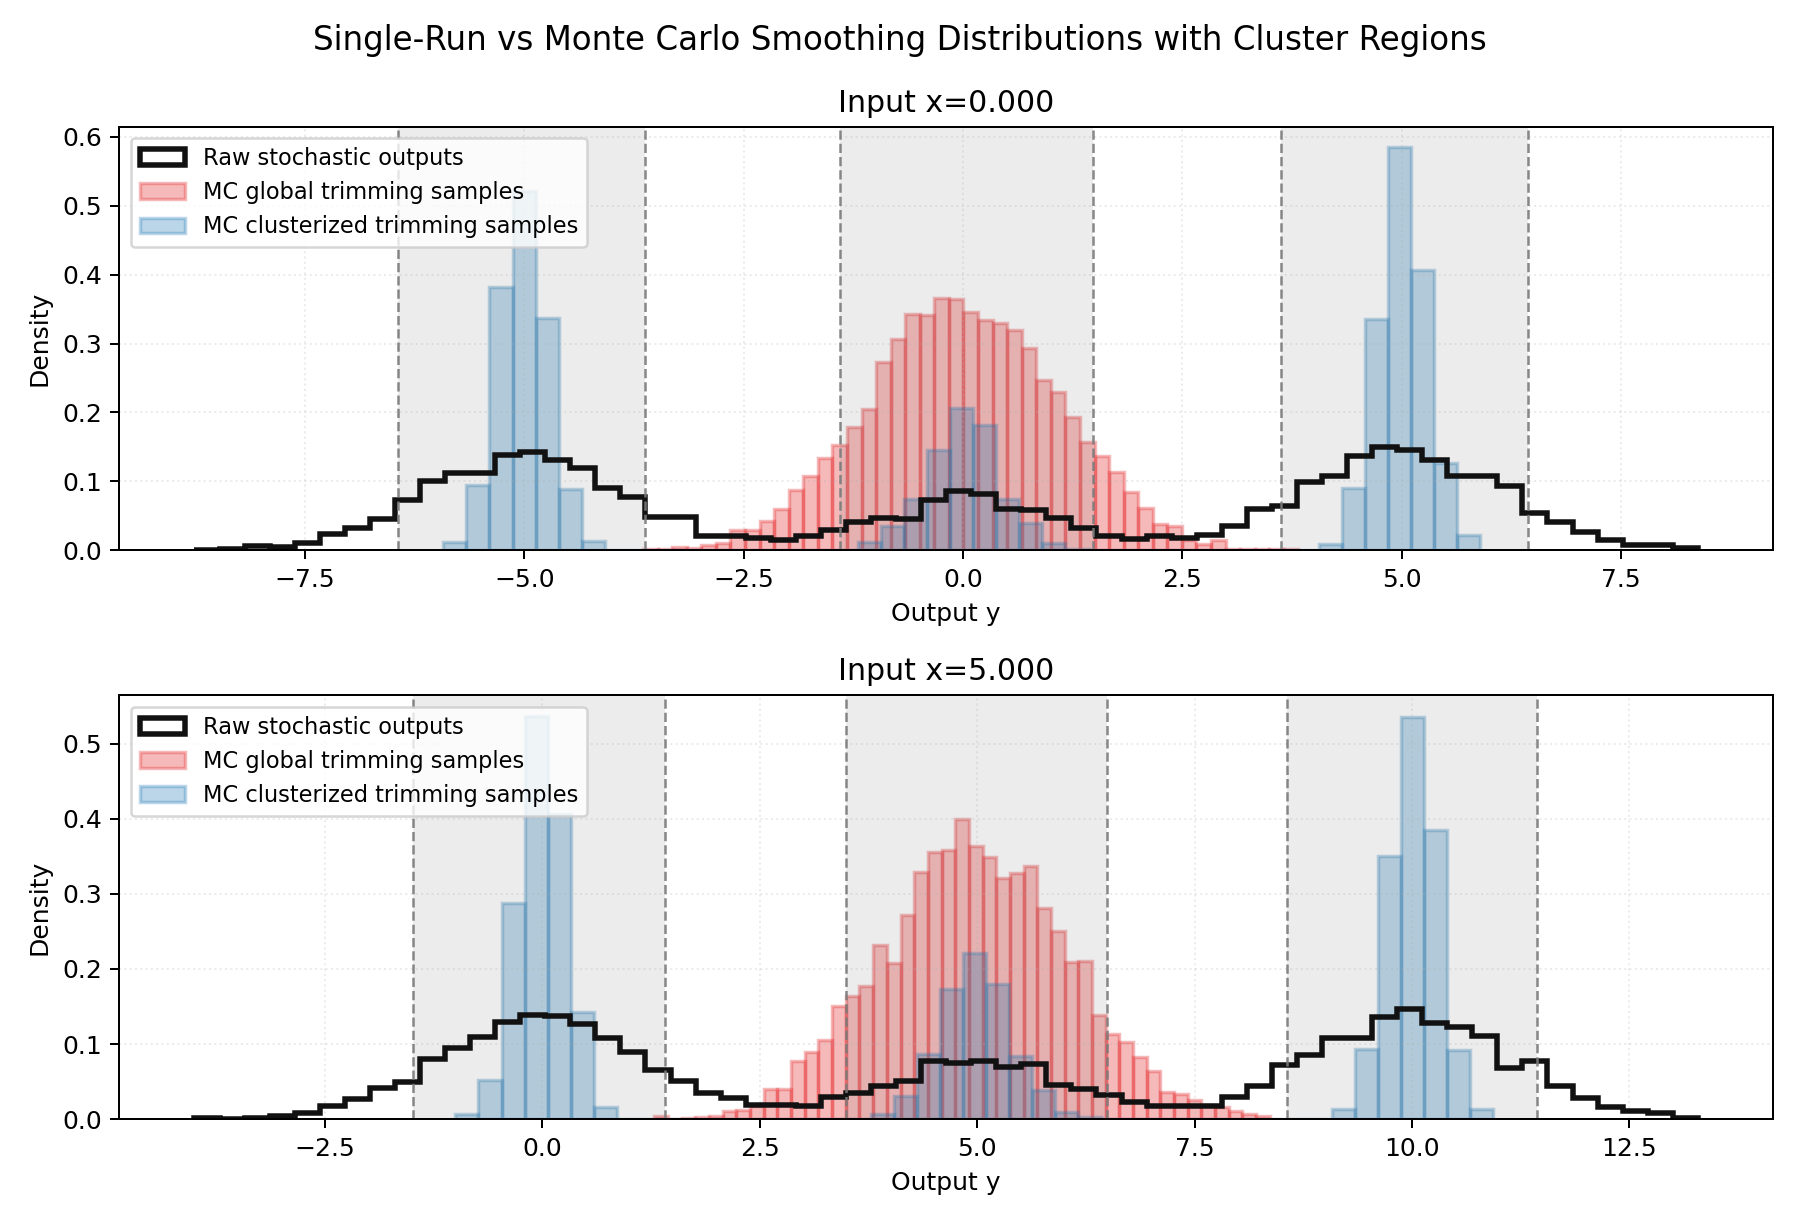
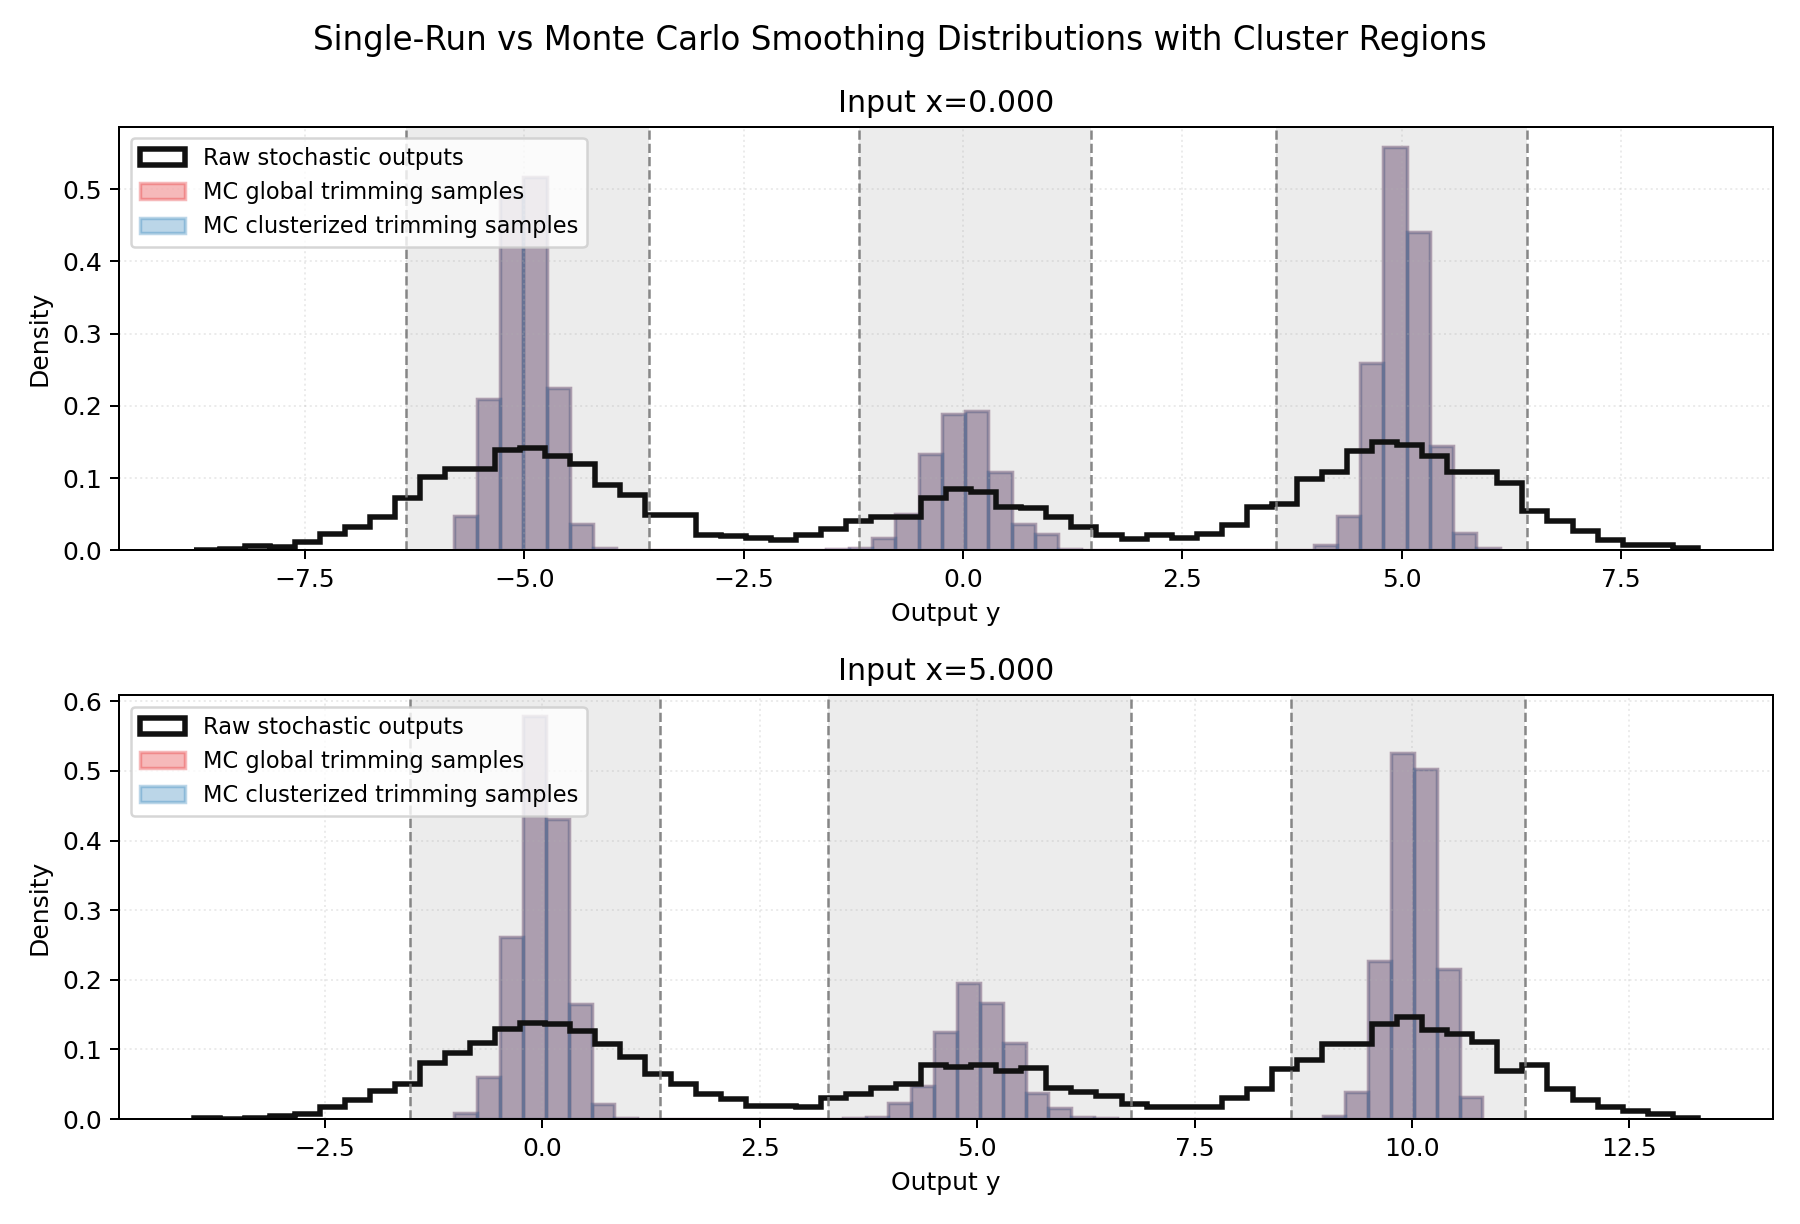
refactor smoother

diff --git a/src/randomized_smoothing/smoothing.py b/src/randomized_smoothing/smoothing.py
@@ -4,6 +4,7 @@ from typing import Optional
 import torch
 
 from randomized_smoothing.dataclasses import Parameters, RobustnessCertificate
+from randomized_smoothing.regions import HyperRectangle
 
 from .clopper_pearson import ClopperPearsonLowerBound
 from .distributions import Dirac, Distribution, MixtureDirac, MultivariateGaussian
@@ -33,8 +34,8 @@ class Smoothing(ABC):
     # def robust_certification(self, region_coverage: float, p_partition: torch.Tensor, beta: float, num_samples: int, radius: float) -> RobustnessCertificate:
     #     raise NotImplementedError
 
-    def monte_carlo(self, x: torch.Tensor, num_simulations: int) -> torch.Tensor:
-        draws = [self.smooth(x=x).distribution.sample() for _ in range(num_simulations)]
+    def monte_carlo(self, num_simulations: int) -> torch.Tensor:
+        draws = [self.smooth().distribution.sample() for _ in range(num_simulations)]
         return torch.stack(draws, dim=1)
 
 
@@ -42,30 +43,36 @@ class AlphaTrimmingSmoothing(Smoothing):
     def __init__(
             self, 
             stochastic_function: StochasticFunction,
-            smoothing_distribution: Distribution, 
+            x: torch.Tensor,
+            smoothing_distribution: Distribution,
             parameters: Parameters,
         ):
         self.stochastic_function = stochastic_function
+        self.x = x
         self.smoothing_distribution = smoothing_distribution
         
         if _validate_alpha(parameters.smoothing.alpha):
             self.parameters = parameters
 
-    def _generate_noisy_samples_from_stochastic_function(self, x: torch.Tensor, num_samples: int) -> torch.Tensor:
-        nx = x.shape[0]
+    def _generate_noisy_samples_from_stochastic_function(self, num_samples: int) -> torch.Tensor:
+        nx = self.x.shape[0]
         return self.stochastic_function.sample(
-            x.unsqueeze(1) + self.smoothing_distribution.sample(size=(nx, num_samples))
+            self.x.unsqueeze(1) + self.smoothing_distribution.sample(size=(nx, num_samples))
         )  
 
-    def _construct_cluster(self, x: torch.Tensor, num_samples: int) -> Cluster:
-        raw_outputs = self._generate_noisy_samples_from_stochastic_function(x=x, num_samples=num_samples)
+    @property
+    def cluster(self) -> Cluster:
+        raw_outputs = self._generate_noisy_samples_from_stochastic_function(num_samples=self.parameters.confidence.num_samples)
         return Cluster(outputs=raw_outputs, parameters=self.parameters.clustering)
+    
+    @property
+    def regions(self) -> HyperRectangle:
+        return self.cluster.regions
 
-    def smooth(self, x: torch.Tensor) -> Distribution:
+    def smooth(self) -> Distribution:
+        outputs = self._generate_noisy_samples_from_stochastic_function(num_samples=self.parameters.smoothing.N)
         
-        cluster = self._construct_cluster(x=x, num_samples=self.parameters.confidence.num_samples)
-        outputs = self._generate_noisy_samples_from_stochastic_function(x=x, num_samples=self.parameters.smoothing.N)
-        
+        cluster = self.cluster
         centroids = cluster.centroids
         weights = cluster.weights
 
@@ -86,7 +93,7 @@ class AlphaTrimmingSmoothing(Smoothing):
             sorted_cluster_values = cluster_values.sort(dim=1).values
 
             counts = cluster_mask.sum(dim=1)
-            left = torch.floor(self.alpha * counts.to(outputs.dtype)).to(torch.long)
+            left = torch.floor(self.parameters.smoothing.alpha * counts.to(outputs.dtype)).to(torch.long)
             right = counts - left
 
             in_trimmed_core = (positions >= left.view(nx, 1, 1)) & (positions < right.view(nx, 1, 1))
@@ -102,7 +109,10 @@ class AlphaTrimmingSmoothing(Smoothing):
             )
 
         distribution = MixtureDirac(locs=trimmed_mean, probs=weights)
-        return RobustSmoothedOutput(distribution=distribution, certified_probs=None, radii=None)
+        return RobustSmoothedOutput(
+            distribution=distribution,
+            certified_probs=None, 
+            radii=None)
     
     def _clopper_pearson_lower_bound(self) -> torch.Tensor:
         return ClopperPearsonLowerBound(
@@ -111,7 +121,7 @@ class AlphaTrimmingSmoothing(Smoothing):
             parameters=self.parameters.confidence,
         ).lower_bound
 
-    def robust_certification(self, x: torch.Tensor, radius: float,) -> RobustnessCertificate:
+    def robust_certification(self, radius: float,) -> RobustnessCertificate:
         if not isinstance(self.smoothing_distribution, MultivariateGaussian):
             raise ValueError("Robustness certification is only available for MultivariateGaussian")
         

diff --git a/experiments/compare_distributions.py b/experiments/compare_distributions.py
@@ -47,7 +47,7 @@ def main():
     )
     clustering_parameters = ClusteringParameters(
         num_clusters=3,
-        region_coverage=0.8,
+        coverage=0.8,
     )
     confidence_parameters = ConfidenceParameters(
         beta=1e-2,
@@ -67,19 +67,20 @@ def main():
     
     alpha_trimming_smoother = AlphaTrimmingSmoothing(
         stochastic_function=stochastic_fn,
+        x=x,
         smoothing_distribution=smoothing_distribution,
         parameters=parameters,
     )
 
 	# Plot empirical distributions of raw outputs and smoothed outputs
-    alpha_trimming_mc_samples = alpha_trimming_smoother.monte_carlo(x=x, num_simulations=5000)
+    alpha_trimming_mc_samples = alpha_trimming_smoother.monte_carlo(num_simulations=5000)
 
     chart_paths = plot_experiment_results(
         x=x,
         outputs=raw_outputs,
         global_trimmed_mc_samples=alpha_trimming_mc_samples,
         clusterized_mc_samples=alpha_trimming_mc_samples, # TODO: FIX
-        region=alpha_trimming_smoother.get_regions(),
+        region=alpha_trimming_smoother.regions,
         output_dir=ROOT / "outputs",
     )
 

diff --git a/src/randomized_smoothing/regions.py b/src/randomized_smoothing/regions.py
@@ -35,7 +35,7 @@ class HyperRectangle:
         return HyperRectangle(lower, upper)
     
     @staticmethod
-    def from_samples(samples: torch.Tensor, centroids: torch.Tensor, region_coverage: float):
+    def from_samples(samples: torch.Tensor, centroids: torch.Tensor, coverage: float):
         nx, _, _ = samples.shape
         k = centroids.shape[1]
 
@@ -56,7 +56,7 @@ class HyperRectangle:
                     int(
                         torch.ceil(
                             torch.tensor(
-                                region_coverage * d_ij.numel(),
+                                coverage * d_ij.numel(),
                                 dtype=d_ij.dtype,
                                 device=d_ij.device,
                             )

diff --git a/src/randomized_smoothing/clusters.py b/src/randomized_smoothing/clusters.py
@@ -15,7 +15,11 @@ class Cluster:
         self.centroids, self.assignments = self._compute_centroids(outputs=outputs)
         self.weights = self._compute_weights()
 
-        self.regions = self._get_regions(outputs=outputs, coverage=self.parameters.coverage)
+        self.regions = self._get_regions(outputs=outputs)
+
+    @property
+    def num_clusters(self):
+        return self.parameters.num_clusters
     
     def _compute_centroids(self, outputs: torch.Tensor) -> tuple[torch.Tensor, torch.Tensor]:
         nx, num_samples, output_dim = outputs.shape
